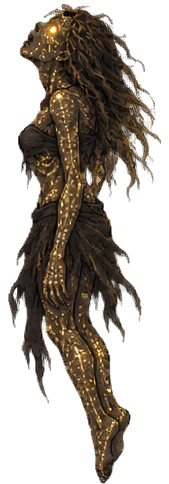
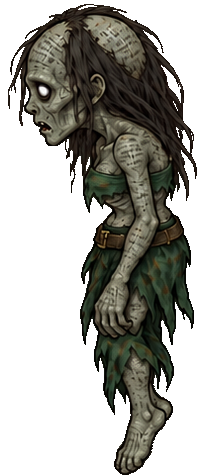
feat(ameacas): arte no tabuleiro dos Existidos refeitos e de cinco portadores de reliquia
- Existidos masculino e feminino pelo retrato da lista (cinza, escrita preta, olhos brancos)
- Deus da Morte, Diabo, Magistrada e Anfitriao, 8 direcoes na altura da Catarina
- a peca criada na hora (portador, NPC) entra ja com a arte: o personagem e criado antes de colocar
- EM-ABERTO atualizado

diff --git a/server/src/hotel.ts b/server/src/hotel.ts
@@ -484,6 +484,9 @@ export class Hotel implements HotelApi {
     if (m.t === 'criaturaColocar') {
       const cr = this.db.bestiario.find((x) => x.id === m.criaturaId);
       if (!cr) return c.send({ t: 'error', msg: 'Criatura não encontrada.' });
+      // a arte que o Códex entregou vira personagem antes de pôr a peça: senão a primeira entra sem a cara dela (17/10:
+      // o portador de relíquia, criado na hora, aparecia como o boneco de pixel até o servidor reiniciar)
+      if (this.criaturasComArte(false)) this.broadcastCharacters();
       // o portador de relíquia é único na campanha (17/10): um só, e nenhum se já houver um em alguma cena dela
       const unico = cmb.ehPortadorDeReliquia(cr.ficha.livro);
       if (unico) {
@@ -520,6 +523,7 @@ export class Hotel implements HotelApi {
     if (m.t === 'npcColocar') {
       const npc = (this.db.npcs ?? []).find((x) => x.id === m.npcId);
       if (!npc) return c.send({ t: 'error', msg: 'NPC não encontrado.' });
+      if (this.criaturasComArte(false)) this.broadcastCharacters();
       if (this.npcsEmCampo(room.data.id).includes(npc.id)) return c.send({ t: 'error', msg: `${npc.nome} já está em cena.` });
       if (room.tokenList().length + 1 > 30) return c.send({ t: 'error', msg: 'Máximo de 30 peças por cena.' });
       // o nome dele; com outro igual na cena (dois Miguéis?), numerado

diff --git a/docs/EM-ABERTO.md b/docs/EM-ABERTO.md
@@ -2,6 +2,16 @@
 
 O que está pela metade, o que falta e o que o Códex ainda vai entregar. Leia junto com o [`GUIA-DO-CLAUDE.md`](GUIA-DO-CLAUDE.md), que diz como trabalhar aqui. **Atualize este arquivo ao fim de cada bloco de trabalho.**
 
+## Feito em 17/10, fim da tarde (branch `claude/tatica-codigo`): o jogo de verdade atualizado e a tela do COMBATE com respiro
+
+- **O jogo de verdade (8080) subiu com tudo de 17/10** (backup `crona_2026-10-17_16-25-32.dump` antes; o `SEDE_REV`/`FAZENDA_REV` refizeram as salas: ajuste à mão no jogo que não estava no seed voltou ao seed). O "nome do NPC não salva" era o 8080 ainda no código velho: no código novo salva pelo Elenco, pelo lápis da aba NPCs e pela Identificação (conferido na prévia, também depois de recarregar).
+- **COMBATE (o Felipe: "tudo apertado, tudo cortando"; o scroll de baixo tem que mudar):** a faixa da iniciativa com o selo "Sua vez" na fila, a foto dentro da carta e mais altura; a gaveta de baixo (Alvo / Efeitos / Registro) de 20 para 29 rem (o mapa cede 9 rem; a câmera se ajusta), a nota do alvo na largura toda e o scroll no padrão do jogo (cobre sobre azul-noite); os campos do bônus (+2) e da Luta sem corte. **Registro do combate: o mais novo em cima, o início embaixo.**
+- **Manobra:** quando o alvo não tem Luta na ficha, o campo para digitar fica na página da Rolagem (antes só na página anterior, escondida: a tela dizia "digite a Luta" e não tinha onde). Conferido na prévia: Luta, d20s e o passo Efeito ("fica caído"), confirmar e o registro. O alvo que continua marcado ao passar o turno está no código (`combate.ts`, `ultimaVez`), mas não deu para ver numa luta de teste com os dois participantes em outra cena.
+- **Poses deitadas conferidas:** as 14 (dormindo e caído) na mesma escala, sem defeito evidente.
+- **Sentada em banco alto (o Felipe: "a Agatha tá sentada toda errada"):** o assento acima de 0,45 m (banco do bar, de laboratório) sobe a pose, e o quadril, não os pés, é o que fica em cima do assento (`meioDoQuadril`, em `sprites.ts`). Cadeira baixa não muda.
+- **Arte dos portadores de relíquia e dos Existidos (Códex, 8 direções, na altura da Catarina):** chegaram e instalados os Existidos refeitos pelo retrato da lista (cinza, escrita preta, olhos brancos; os dourados de antes ficaram em `arte\PERSONAGENS-ANIMACAO	rabalho\_backup-existidos-dourados`), o Deus da Morte e o Diabo. A fila (`trabalho/fila_monstros.sh`, log em `fila_monstros.log`) segue com a Magistrada, o Anfitrião e as faces; cada um é cortado com `cortar_8.py --altura 470` e instalado com `monstros-tabuleiro/instalar_monstro.py <id> <v>`.
+- **C.R.I.S (só leitura, o Felipe pediu):** as fichas dos Marcados no CRONA e no C.R.I.S batem em atributos, PV/PE/SAN e poderes (o +1 do NEX 20% está na progressão); mudam só alguns itens. Das fichas de NPC, o C.R.I.S só tem de verdade o Miguel; a Agatha é parcial e a Ivete e a Marcela são modelos em branco (tudo 1).
+
 ## PARA A SESSÃO DE 18/10 (Sede / Fazenda): o que falta
 
 - **Atualizar o jogo de verdade (8080) de manhã**, antes da sessão: backup do banco (`npm run banco:backup`) e
